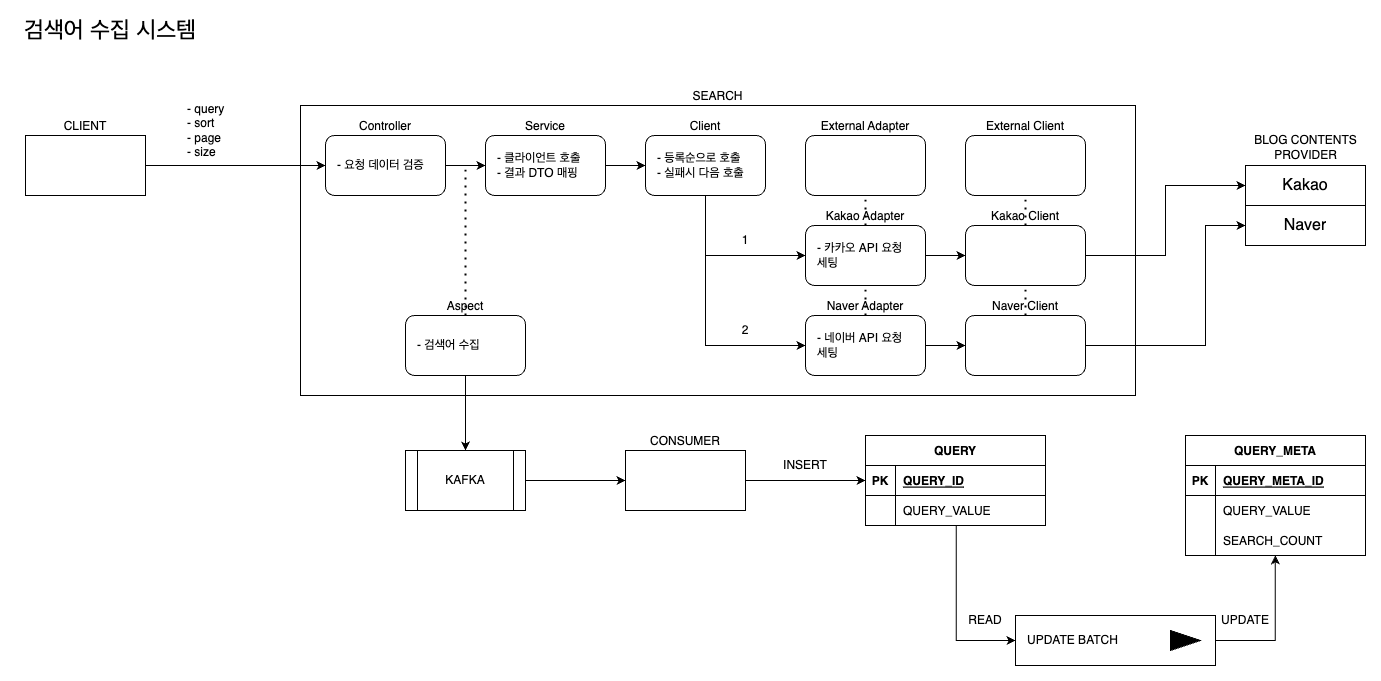
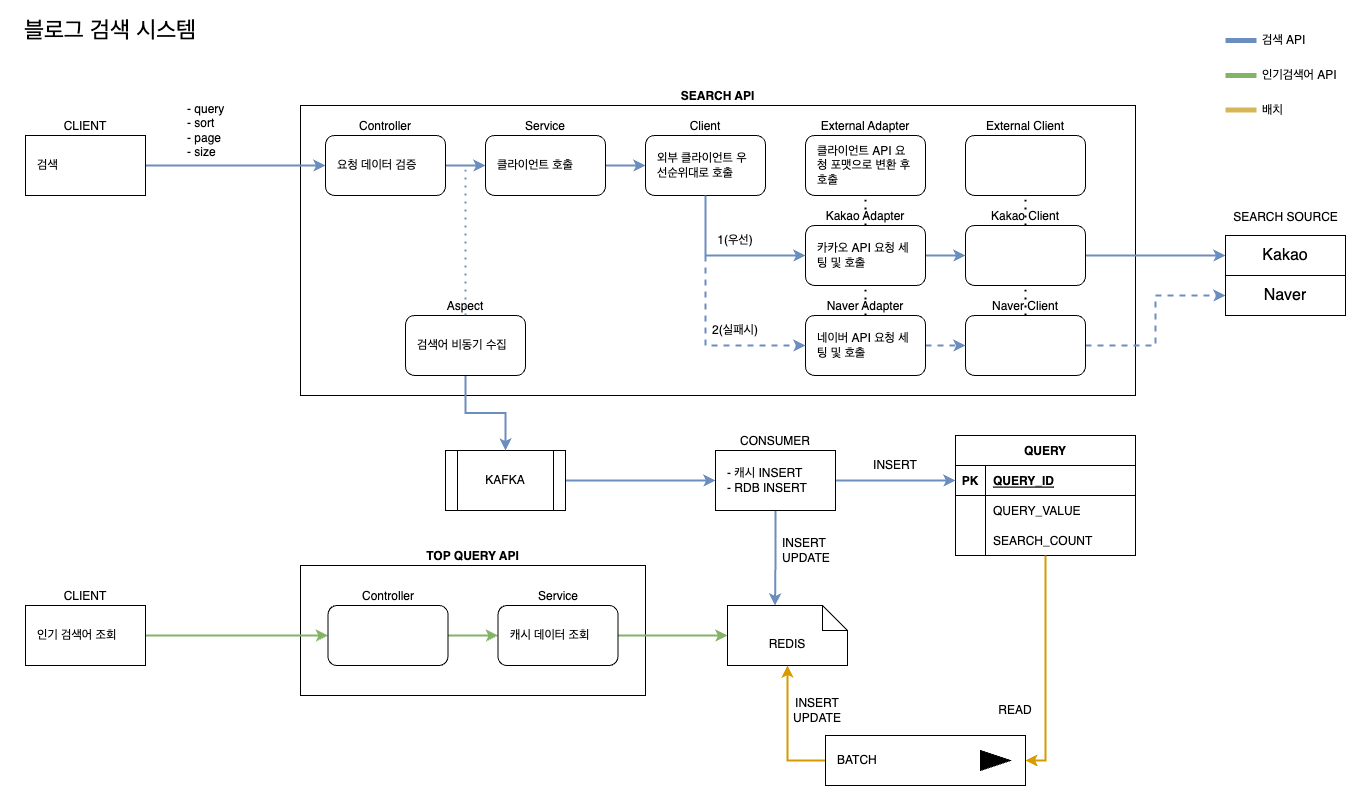
리드미 정리

diff --git a/src/test/java/com/blog/search/api/controller/SearchControllerTest.java b/src/test/java/com/blog/search/api/controller/SearchControllerTest.java
@@ -106,7 +106,7 @@ class SearchControllerTest {
 
 
     @Nested
-    @DisplayName("[인기검색어]")
+    @DisplayName("[인기 검색어 조회]")
     class ListTopQueries {
 
         @DisplayName("[성공] 검색횟수 증가 반영")

diff --git a/readme.md b/readme.md
@@ -1,5 +1,11 @@
 # 블로그 검색 서비스
 
+카카오, 네이버의 블로그 검색 API를 활용해 블로그 검색 결과를 제공한다.
+
+검색어를 수집하고, 수집 데이터를 활용해 인기 검색어를 제공한다.
+
+<br>
+
 ## 프로젝트 정보
 
 - Java 11
@@ -8,71 +14,91 @@
 - Spring Data JPA
 - Gradle
 
-## 가정
+<br>
 
-- DAU 10만
-- 유저당 평균 10개 검색어
-- 분당 약 700개 검색어 수집
-
-## 검색 서비스 및 검색어 수집 시스템
+## 시스템 설계
 
 ![검색 서비스 및 검색어 수집 시스템](./diagram1.png)
 
-- 요청은 검색어(query), 정렬 기준(sort), 페이지(page), 페이지 크기(size)를 받음
-- 서비스의 핵심 기능은 블로그 컨텐츠 제공자로부터 조회한 컨텐츠 제공
-- 검색어 수집은 부가 기능으로 판단하여 Aspect에서 처리
-- Kafka를 통한 DB 저장 우회
-    - 목적 1: DB 처리 이슈로 검색 서비스 오류나 성능 저하 방지
-    - 목적 2: 트래픽이 몰릴 경우 부하 분산
-    - 참고: 실제 구현은 DB 직접 INSERT
-- 다양한 컨텐츠 제공자의 추가 고려
-    - 외부 통신용 Feign Client는 공통 인터페이스 External Client를 구현
-    - 컨텐츠 제공자 API별 요청 데이터 형식이 다른 문제를 External Adapter로 해결
-    - Service는 Client에만 의존
-    - Client 내부적으로 컨텐츠 제공자 우선순위대로 호출
-    - 성공시 결과를 Service로 반환하고 실패시 다음 컨텐츠 제공자 호출
-- DB 설계
-    - 각 검색어별로 1개의 행을 가지고 검색횟수 컬럼을 갖는 것은 비효율적이라고 판단
-    - 매 검색별로 QUERY 테이블에 인서트
-    - 보다 효율적인 검색어 관리를 위해 QUERY 데이터는 배치로 일정 주기마다 QUERY_META 업데이트
-    - 실시간 인기검색어는 QUERY에서 특정 시간 범위의 COUNT로 체크
-    - 전체 검색순위는 QUERY_META의 SEARCH_COUNT 순위로 체크
+### 1. 검색 API
+
+- 요청 파라미터
+
+    - query(검색어)
+    - sort(정렬 기준)
+    - page(페이지)
+    - size(페이지 크기)
+
+- 핵심 기능(블로그 검색 결과 제공)
+
+    - 다양한 검색 소스의 추가 고려
+        - 외부 통신용 Feign Client는 공통 인터페이스 External Client를 구현
+        - 검색 소스 API별 요청 데이터 형식이 다른 문제를 External Adapter로 해결
+        - Service는 Client에만 의존
+        - Client 내부적으로 컨텐츠 제공자 우선순위대로 호출
+        - 성공시 결과를 Service로 반환하고 실패시 다음 컨텐츠 제공자 호출
+
+- 부가 기능(데이터 수집 기능)
+
+    - AOP로 핵심 서비스와 분리하여 수정, 확장, 오류 등에 독립성 확보
+
+    - Kafka를 통한 DB 저장 우회
+
+        - 목적 1: DB 처리 이슈로 검색 서비스 오류나 성능 저하 방지
+
+        - 목적 2: 트래픽이 몰릴 경우 부하 분산
+
+        - 참고: 실제 구현은 DB 직접 인서트/업데이트
+
+    - 캐시/RDB 동시 인서트/업데이트
+
+        - 목적: 인기 검색어의 실시간 정확도 향상
+
+### 2. 인기 검색어 조회 API
+
+- 핵심 기능(인기 검색어 조회)
+  - RDB를 직접 호출하지 않고 캐시(인메모리 데이터베이스) 활용하여 성능 개선
+  - 배치로 일정 주기마다 RDB 데이터를 인서트/업데이트
+
+<br>
 
 ## 문제 해결 전략
 
 ### 1. 블로그 검색
 
-- 키워드를 통한 블로그 검색
-    - 요청 파라미터: query
-- 검색 결과에서 Sorting(정확도순, 최신순) 기능을 지원
-    - 요청 파라미터: sort
-    - accuracy(정확도순), recency(최신순)의 값을 가짐
-    - 각각 Adapter에서 카카오, 네이버의 정확도순/최신순 파라미터 값으로 매핑
-- 검색 결과는 Pagination 형태로 제공해야 합니다.
-    - 요청 파라미터: page, size
-    - 응답 Body 필드: page, size, totalCount, totalPageCount
-- 검색 소스는 카카오 API(검색 소스 추가 고려)
-    - External Client를 구현하는 검색 소스별 Feign Client
-    - External Adapter로 검색 소스별 요청 데이터 세팅
+- **키워드를 통한 블로그 검색**
+  - 요청 파라미터 query를 받아 검색 소스 API 호출에 사용
+- **검색 결과에서 Sorting(정확도순, 최신순) 기능을 지원**
+  - 요청 파라미터 sort에서 accuracy(정확도순), recency(최신순)을 받아 검색 소스 API 호출에 사용
+  - 각 검색 소스의 External Adapter에서 카카오, 네이버의 정확도순/최신순 파라미터 값으로 매핑
+- **검색 결과는 Pagination 형태로 제공**
+  - 요청 파라미터에서 page, sort를 받고 페이징 정보를 응답값의 page, size, totalCount, totalPageCount로 전달
+
+- **검색 소스는 카카오 API**
+    - Feign Client 이용해 카카오 API 호출
+- **추후 카카오 API 이외에 새로운 검색 소스가 추가 고려**
+    - External Client를 구현하는 검색 소스별 Feign Client로 확장성 고려
+    - External Adapter로 검색 소스별 API 명세에 유연하게 대응 가능한 구조
 
 ### 2. 인기 검색어 목록
 
-- 사용자들이 많이 검색한 순서대로, 최대 10개의 검색 키워드 제공
-- 검색어 별로 검색된 횟수 함께 표기
-    - 응답 Body 필드: searchCount
+- **사용자들이 많이 검색한 순서대로, 최대 10개의 검색 키워드를 제공**
+    - QUERY 테이블에서 검색횟수(SEARCH_COUNT) 역순으로 상위 10개 조회
+
+- **검색어 별로 검색된 횟수 함께 표기**
+    - 응답값에 searchCount 전달
 
 ### 3. 추가 요건
 
-- 모듈 간 의존성 제약
-    - 상위 패키지에서 하위 패키지에 의존하지 않도록 주의
-- 트래픽이 많고, 저장되어 있는 데이터가 많음을 염두에 둔 구현
-    - 배치로 일정 주기마다 QUERY -> QUERY_META로 업데이트
-    - 실시간 인기검색어는 QUERY 테이블에서 일정 시간 범위의 COUNT 함수로 조회
-    - 전체 검색순위는 QUERY_META의 SEARCH_COUNT 내림차순으로 조회
-- 동시성 이슈가 발생할 수 있는 부분을 염두에 둔 구현 (예시. 키워드 별로 검색된 횟수의 정확도)
-    - QUERY(검색어) 테이블에서 SEARCH_COUNT(검색횟수) 컬럼을 갖지 않음
-    - 검색횟수는 일정 시간 범위 내에서 COUNT 함수로 조회
-- 카카오 블로그 검색 API에 장애가 발생한 경우, 네이버 블로그 검색 API를 통해 데이터 제공
+- **모듈 간 의존성 제약**
+    - 상위 패키지에서 하위 패키지에 의존하지 않고 확장성을 갖도록 구조화
+    - ex) external 패키지 내부에 kakao, naver 패키지를 갖고 있지만 각 패키지를 지워도 빌드 오류 없음
+- **트래픽이 많고, 저장되어 있는 데이터가 많음을 염두에 둔 구현**
+    - 배치로 일정 주기마다 QUERY의 상위 검색어를 Redis로 인서트/업데이트
+- **동시성 이슈가 발생할 수 있는 부분을 염두에 둔 구현 (예시. 키워드 별로 검색된 횟수의 정확도)**
+    - 인기 검색어 조회는 캐시 조회
+    - 검색시 Redis, RDB 동시 인서트/업데이트하여 실시간 정확도
+- **카카오 블로그 검색 API에 장애가 발생한 경우, 네이버 블로그 검색 API를 통해 데이터 제공**
     - Search Client에서 우선순위대로 External Client 호출
     - 성공하면 결과 반환, 실패하면 다음 External Client 호출하도록 구현
 
@@ -80,15 +106,19 @@
 
 - 비즈니스상 문제는 SearchBusinessException으로 구현
 - SearchBuisnessException은 ApiResult Enum 포함
-- 각 예외 케이스는 ApiResult에서 관리
+- 각 예외 케이스의 HTTP 상태, 응답 코드, 응답 메시지는 ApiResult에서  관리
 - 핸들링되지 못한 예외는 Controller Advice에서 일괄 기타 예외 케이스로 매핑
+  - Sentry 등 모니터링 적용하여 빠른 운영 이슈 발견
+
 
 ### 5. 테스트 케이스
 
 - 통합 테스트
-    - 성공
-    - 필수 요청 파라미터 누락
-    - 요청 파라미터 검증 실패
-        - 컨텐츠 제공자의 파라미터 범위에 따라 설정
+    - 검색 API
+        - 성공
+        - 필수 요청 파라미터 누락
+        - 요청 파라미터 검증 실패
+    - 인기 검색어 조회 API
+        - 성공
 - 단위 테스트
     - 1차 컨텐츠 제공자 통신 실패
